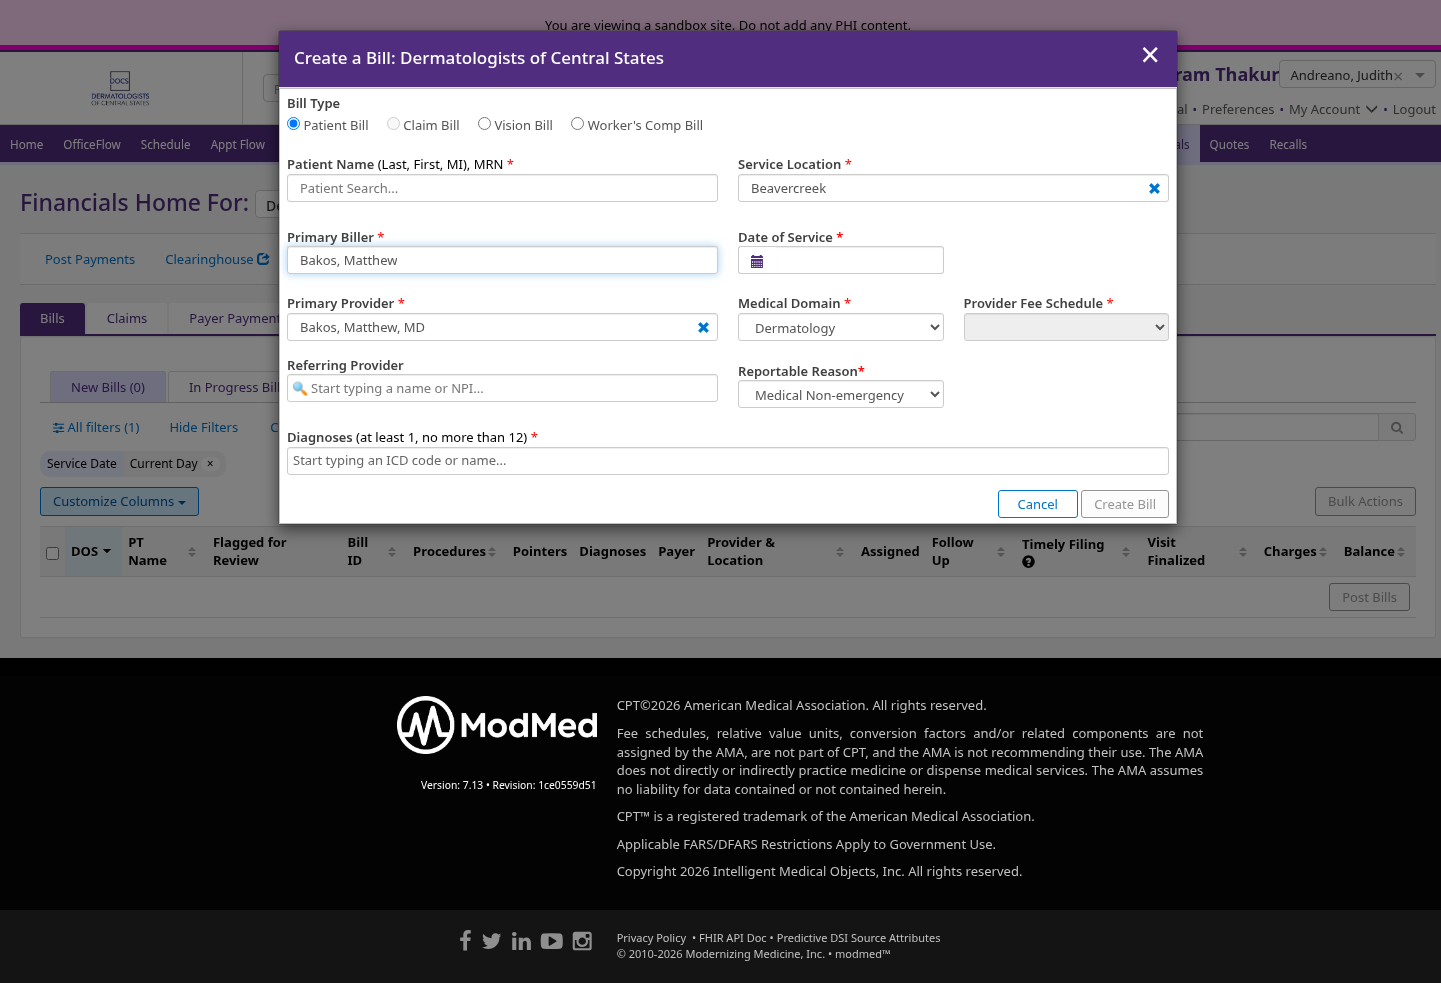
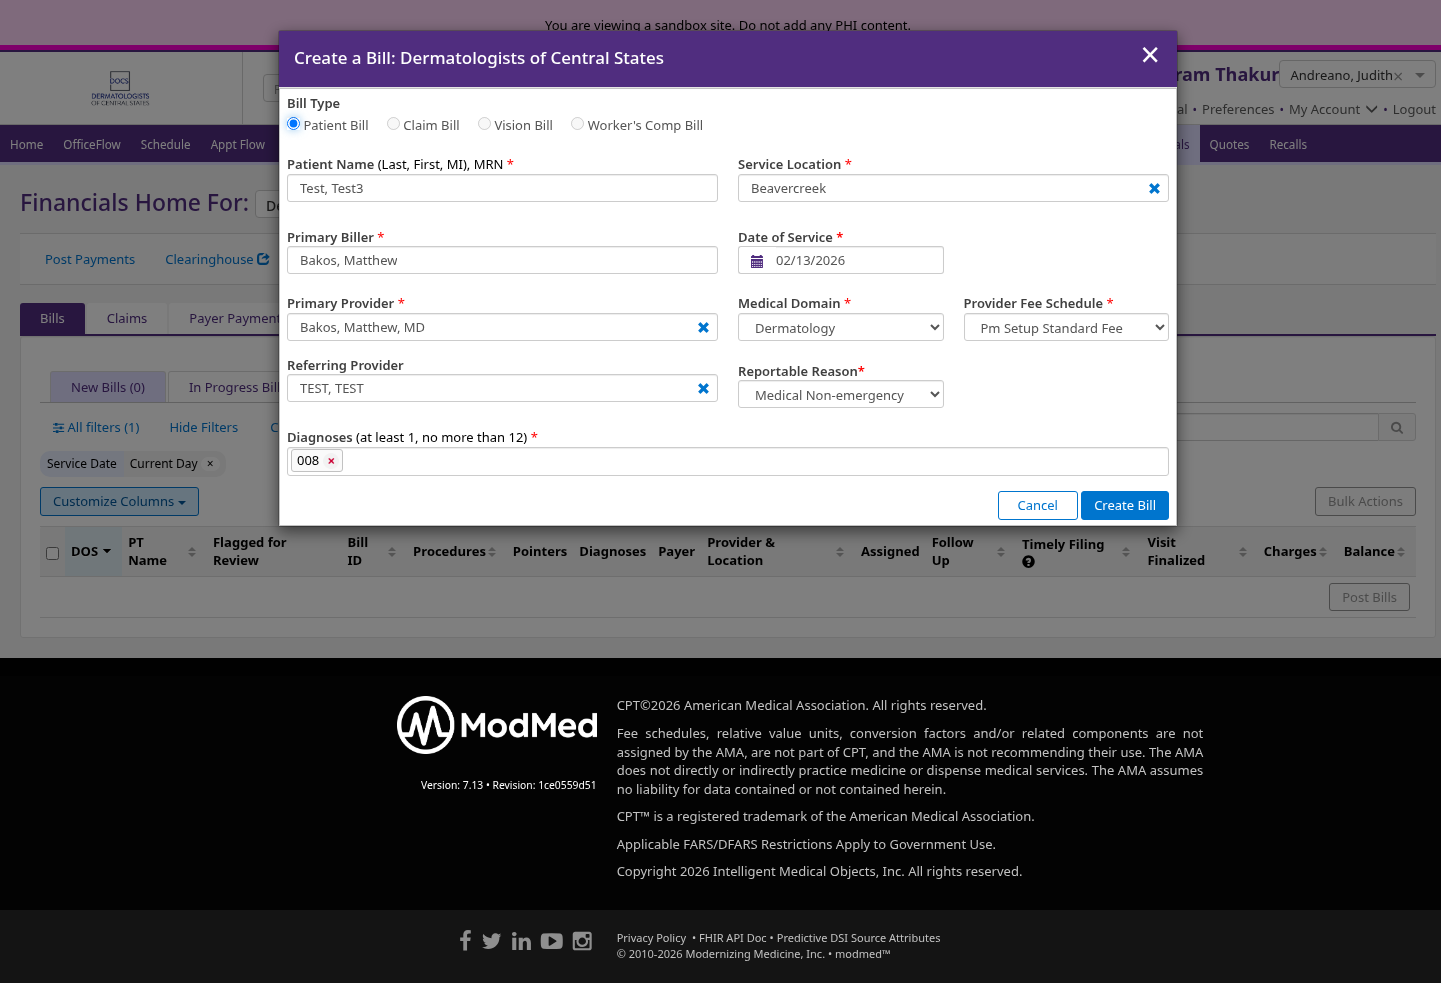
Huuuuh It worked

diff --git a/walkthrough_1.py b/walkthrough_1.py
@@ -260,9 +260,7 @@ async def type_and_select(selector: str, text: str) -> str:
                     const style = window.getComputedStyle(el);
                     if (style.display === 'none' || style.visibility === 'hidden') continue;
                     if (el.offsetWidth === 0 && el.offsetHeight === 0) continue;
-                    // Must be inside a dropdown container, not a random page element
-                    const inDropdown = el.closest('.ui-select-choices, .dropdown-menu, [role="listbox"], .typeahead-dropdown, .autocomplete-results');
-                    if (!inDropdown) continue;
+                    if (el.closest('nav, header, footer, .navbar')) continue;
                     const text = el.textContent?.trim();
                     if (text && text.length > 2 && text.length < 300) {
                         el.click();
@@ -302,8 +300,8 @@ _CLICK_SUGGESTION_JS = """() => {
             const style = window.getComputedStyle(el);
             if (style.display === 'none' || style.visibility === 'hidden') continue;
             if (el.offsetWidth === 0 && el.offsetHeight === 0) continue;
-            const inDropdown = el.closest('.ui-select-choices, .dropdown-menu, [role="listbox"], .typeahead-dropdown, .autocomplete-results');
-            if (!inDropdown) continue;
+            // Skip elements in navigation areas (avoids clicking "Feedback" etc.)
+            if (el.closest('nav, header, footer, .navbar')) continue;
             const text = el.textContent?.trim();
             if (text && text.length > 2 && text.length < 300) {
                 el.click();
@@ -330,64 +328,100 @@ async def fill_autocomplete_by_label(label_text: str, value: str) -> str:
     """
     page = get_page()
     try:
-        container_info = await page.evaluate("""(labelText) => {
+        # Step 1: Find the correct interactive element via label text
+        field_info = await page.evaluate("""(labelText) => {
             const labels = document.querySelectorAll('label');
             for (const label of labels) {
                 if (!label.textContent.toLowerCase().includes(labelText.toLowerCase())) continue;
 
                 const forAttr = label.getAttribute('for');
+                const parent = label.closest('.form-group') || label.parentElement;
+
                 if (forAttr) {
                     const target = document.getElementById(forAttr);
                     if (target) {
-                        // Return the id so we can build a selector
-                        return { id: forAttr, tagName: target.tagName.toLowerCase() };
+                        const isHidden = target.type === 'hidden' ||
+                            window.getComputedStyle(target).display === 'none';
+
+                        // If target is a visible input, use it directly
+                        if (!isHidden && (target.tagName === 'INPUT' || target.tagName === 'TEXTAREA')) {
+                            return { type: 'direct_input', selector: '#' + forAttr };
+                        }
+
+                        // If target is hidden or a container, look for a visible input nearby
+                        if (isHidden && parent) {
+                            // Search the parent container for a visible text/search input
+                            const inputs = parent.querySelectorAll('input:not([type="hidden"])');
+                            for (const inp of inputs) {
+                                const style = window.getComputedStyle(inp);
+                                if (style.display === 'none' || style.visibility === 'hidden') continue;
+                                if (inp.offsetWidth === 0 && inp.offsetHeight === 0) continue;
+                                if (inp.id) return { type: 'direct_input', selector: '#' + inp.id };
+                                if (inp.placeholder) return { type: 'direct_input', selector: 'input[placeholder="' + inp.placeholder + '"]' };
+                            }
+                        }
+
+                        // Target is a ui-select container or similar
+                        if (!isHidden) {
+                            return { type: 'ui_select', selector: '#' + forAttr };
+                        }
                     }
                 }
 
-                // Fallback: look for input near the label
-                const parent = label.closest('.form-group') || label.parentElement;
+                // Fallback: look for any visible input near the label
                 if (parent) {
-                    const input = parent.querySelector('input:not([type="hidden"])');
-                    if (input && input.id) {
-                        return { id: input.id, tagName: 'input' };
+                    const inputs = parent.querySelectorAll('input:not([type="hidden"])');
+                    for (const inp of inputs) {
+                        const style = window.getComputedStyle(inp);
+                        if (style.display === 'none' || style.visibility === 'hidden') continue;
+                        if (inp.offsetWidth === 0 && inp.offsetHeight === 0) continue;
+                        if (inp.id) return { type: 'direct_input', selector: '#' + inp.id };
+                        if (inp.placeholder) return { type: 'direct_input', selector: 'input[placeholder="' + inp.placeholder + '"]' };
                     }
                 }
             }
             return null;
         }""", label_text)
 
-        if not container_info:
+        if not field_info:
             return f"Failed: Could not find field with label '{label_text}'"
 
-        target_id = container_info['id']
+        field_type = field_info['type']
+        selector = field_info['selector']
 
-        await page.click(f"#{target_id}", timeout=5000)
-        await page.wait_for_timeout(500)
+        if field_type == 'direct_input':
+            # It's a visible input — click, clear, and type directly
+            await page.wait_for_selector(selector, timeout=5000, state="visible")
+            await page.click(selector, timeout=5000)
+            await page.fill(selector, "")
+            await page.type(selector, value, delay=50)
+            await page.wait_for_timeout(2000)
+        else:
+            # It's a ui-select container — click to open, then find the search input
+            await page.click(selector, timeout=5000)
+            await page.wait_for_timeout(500)
 
-        search_selectors = [
-            f"#{target_id} input.ui-select-search",
-            f"#{target_id} input[type='search']",
-            f"#{target_id} input:not([type='hidden']):not(.ui-select-focusser)",
-        ]
+            search_selectors = [
+                f"{selector} input.ui-select-search",
+                f"{selector} input[type='search']",
+                f"{selector} input:not([type='hidden']):not(.ui-select-focusser)",
+            ]
 
-        search_input = None
-        for sel in search_selectors:
-            try:
-                search_input = await page.wait_for_selector(sel, timeout=2000, state="visible")
-                if search_input:
-                    break
-            except Exception:
-                continue
+            search_input = None
+            for sel in search_selectors:
+                try:
+                    search_input = await page.wait_for_selector(sel, timeout=2000, state="visible")
+                    if search_input:
+                        break
+                except Exception:
+                    continue
 
-        if not search_input:
-            if container_info['tagName'] == 'input':
-                search_input = await page.wait_for_selector(f"#{target_id}", timeout=2000, state="visible")
-            else:
-                return f"Failed: Could not find search input for '{label_text}' (container: #{target_id})"
+            if not search_input:
+                return f"Failed: Could not find search input for '{label_text}' (container: {selector})"
 
-        await search_input.fill("")
-        await search_input.type(value, delay=50)
-        await page.wait_for_timeout(2000)
+            await search_input.fill("")
+            await search_input.type(value, delay=50)
+            await page.wait_for_timeout(2000)
 
         clicked = await page.evaluate(_CLICK_SUGGESTION_JS)
 
@@ -412,40 +446,66 @@ async def fill_field_by_label(label_text: str, value: str) -> str:
     """
     page = get_page()
     try:
-        input_id = await page.evaluate("""(labelText) => {
+        input_selector = await page.evaluate("""(labelText) => {
             const labels = document.querySelectorAll('label');
             for (const label of labels) {
                 if (!label.textContent.toLowerCase().includes(labelText.toLowerCase())) continue;
 
                 const forAttr = label.getAttribute('for');
+                const parent = label.closest('.form-group') || label.parentElement;
+
                 if (forAttr) {
                     const target = document.getElementById(forAttr);
                     if (target) {
-                        // If target is an input, use it directly
-                        if (target.tagName === 'INPUT' || target.tagName === 'TEXTAREA') {
-                            return forAttr;
+                        const isHidden = target.type === 'hidden' ||
+                            window.getComputedStyle(target).display === 'none';
+
+                        // If target is a visible input, use it
+                        if (!isHidden && (target.tagName === 'INPUT' || target.tagName === 'TEXTAREA')) {
+                            return '#' + forAttr;
                         }
-                        // Otherwise find input inside
-                        const input = target.querySelector('input:not([type="hidden"])');
-                        if (input && input.id) return input.id;
+                        // If hidden, find visible input nearby
+                        if (parent) {
+                            const inputs = parent.querySelectorAll('input:not([type="hidden"])');
+                            for (const inp of inputs) {
+                                const style = window.getComputedStyle(inp);
+                                if (style.display === 'none' || style.visibility === 'hidden') continue;
+                                if (inp.offsetWidth === 0 && inp.offsetHeight === 0) continue;
+                                if (inp.id) return '#' + inp.id;
+                                if (inp.placeholder) return 'input[placeholder="' + inp.placeholder + '"]';
+                            }
+                        }
+                        // If target is a container, find input inside
+                        if (!isHidden) {
+                            const input = target.querySelector('input:not([type="hidden"])');
+                            if (input && input.id) return '#' + input.id;
+                        }
                     }
                 }
 
                 // Fallback: look for input near the label
-                const parent = label.closest('.form-group') || label.parentElement;
                 if (parent) {
-                    const input = parent.querySelector('input:not([type="hidden"])');
-                    if (input && input.id) return input.id;
+                    const inputs = parent.querySelectorAll('input:not([type="hidden"])');
+                    for (const inp of inputs) {
+                        const style = window.getComputedStyle(inp);
+                        if (style.display === 'none' || style.visibility === 'hidden') continue;
+                        if (inp.offsetWidth === 0 && inp.offsetHeight === 0) continue;
+                        if (inp.id) return '#' + inp.id;
+                        if (inp.placeholder) return 'input[placeholder="' + inp.placeholder + '"]';
+                    }
                 }
             }
             return null;
         }""", label_text)
 
-        if not input_id:
+        if not input_selector:
             return f"Failed: Could not find input for label '{label_text}'"
 
-        await page.wait_for_selector(f"#{input_id}", timeout=5000, state="visible")
-        await page.fill(f"#{input_id}", value, timeout=5000)
+        await page.wait_for_selector(input_selector, timeout=5000, state="visible")
+        # Click to focus, triple-click to select all, then type over it (works for date pickers)
+        await page.click(input_selector, click_count=3)
+        await page.keyboard.press("Backspace")
+        await page.type(input_selector, value, delay=30)
         await page.wait_for_timeout(200)
         return f"Filled '{label_text}' with '{value}'"
 
@@ -714,7 +774,7 @@ async def run_agent():
                     print("  Create a Bill modal open")
 
                     await page.click("#patientBillTypeRadio", timeout=10000)
-                    await page.wait_for_timeout(1000)
+                    await page.wait_for_timeout(3000)
                     print("  Clicked Patient Bill radio")
 
                     form_html = await _extract_interactive_elements(page)
